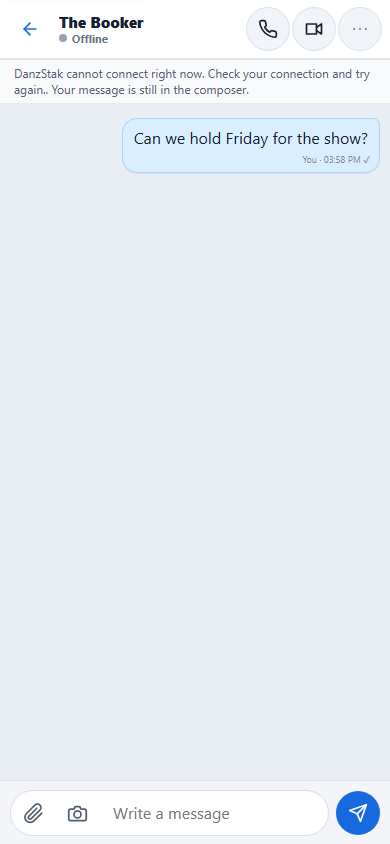
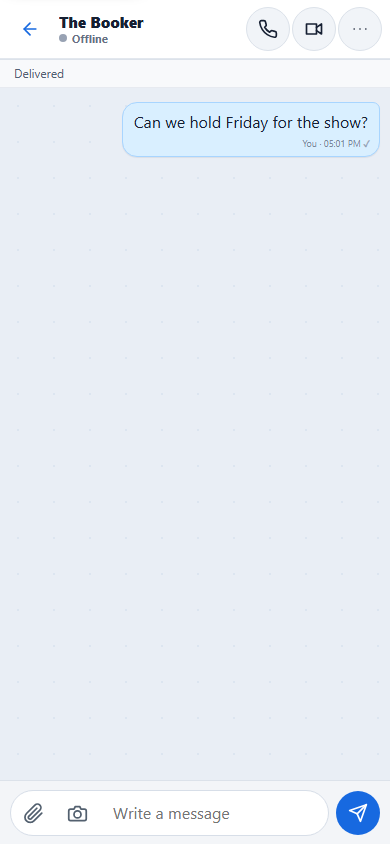
Preserve uncertain SYNC attachments

Changed region(s): [[0.0308, 0.0616, 0.9538, 0.2156]]

diff --git a/assets/direct-messages.js b/assets/direct-messages.js
@@ -1128,7 +1128,6 @@ messageForm?.addEventListener("submit", async event => {
     ? retryMessageSend
     : null;
   if (retryMessageSend && !retry) {
-    await discardMessageMedia(retryMessageSend.attachment?.mediaKey);
     retryMessageSend = null;
   }
   const clientMessageId = retry?.clientMessageId || `${String(Date.now()).padStart(13, "0")}#${crypto.randomUUID()}`;
@@ -1157,8 +1156,6 @@ messageForm?.addEventListener("submit", async event => {
     const response = await directFetch("/messages", { method: "POST", credentials: "include", headers: { "Content-Type": "application/json" }, body: JSON.stringify({ recipientEmail, content, clientMessageId, ...attachment }) });
     const data = await response.json().catch(() => ({}));
     if (!response.ok) {
-      await discardMessageMedia(attachment.mediaKey);
-      attachment = {};
       throw new Error(data.error || messageTranslate("Message could not be sent"));
     }
     retryMessageSend = null;
@@ -1171,6 +1168,7 @@ messageForm?.addEventListener("submit", async event => {
     }
     saveChatDraft(recipientEmail, "");
     if (selectedMessageMedia === mediaFile) clearSelectedMessageMedia();
+    callStatus.textContent = messageTranslate("Delivered");
     await loadConversations();
   } catch (error) {
     pendingItem.remove();

diff --git a/service-worker.js b/service-worker.js
@@ -1,6 +1,6 @@
 "use strict";
 
-const CACHE = "danzstak-shell-v715";
+const CACHE = "danzstak-shell-v716";
 const SHELL = [
   "/assets/offline.js", "/assets/identity-media.js", "/assets/user-content-links.js", "/assets/user-content-links.css", "/assets/invite-sharing.js", "/assets/invite-sharing.css",
   "/assets/fonts/archivo.woff2", "/assets/fonts/jetbrains-mono.woff2", "/assets/fonts/anton.woff2", "/assets/fonts/special-elite.woff2", "/assets/fonts/work-sans.woff2", "/assets/fonts/pirata-one.woff2", "/assets/fonts/oswald.woff2", "/assets/fonts/source-serif-4.woff2", "/assets/fonts/syne.woff2", "/assets/fonts/dm-sans.woff2",

diff --git a/messages.html b/messages.html
@@ -117,7 +117,7 @@
 <script src="assets/invite-sharing.js?v=1" defer></script>
 <script src="assets/identity-media.js?v=1" defer></script>
 <script src="assets/chat.js?v=450" defer></script>
-<script src="assets/direct-messages.js?v=488" defer></script>
+<script src="assets/direct-messages.js?v=489" defer></script>
 <script src="assets/booking-sync.js?v=5" defer></script>
 <script src="assets/make-plans.js?v=3" defer></script>
 <script src="assets/session-activity.js?v=296" defer></script>

diff --git a/docs/DANZSTAK-DEVELOPMENT-REPORT.md b/docs/DANZSTAK-DEVELOPMENT-REPORT.md
@@ -6,10 +6,11 @@ Status: **IN PROGRESS — CODE AND BROWSER TESTS READY FOR REVIEW; BACKEND NOT D
 
 - Root cause: a send retry received a new server-generated message ID. If the durable message write succeeded but the response or conversation-projection update failed, a user retry could create a second message and a second push alert. An interrupted offline sync could also leave an uncertain send permanently marked as `sending`.
 - Each new client send now receives one stable client message ID. Manual retries and offline-queue replays preserve it. The backend uses a conditional durable write, treats an identical replay as success, rejects reuse with changed content, repairs failed conversation projections, and sends the recipient push only for the first durable write.
+- Review found and corrected two release blockers: a successful retry now replaces the stale connection error with the truthful **Delivered** state, and an uploaded attachment is never discarded after a send attempt while server acceptance is uncertain. Retrying preserves the original media key and payload; changing the draft cannot delete media from a message the server may already have committed. Pre-send upload failures still use the existing cleanup path.
 - Cached older PWA clients remain compatible during rollout: a request without a client ID receives a server-generated ID, while updated clients receive retry safety. Older messages cannot replace a newer conversation preview.
-- Functional evidence: `test-message-idempotency.cjs`, `test-message-optimistic-send.cjs` and `test-offline.cjs` pass, including duplicate submission, payload collision, legacy-client compatibility, projection repair and uncertain offline replay.
-- Browser evidence: `browser-checks/message-idempotent-retry.cjs` passes at 320, 360, 390, 414, 430 and 1366px. It forces a lost first response, confirms that the draft is restored, verifies the explicit retry reuses the exact ID, renders one confirmed bubble with no pending duplicate, checks horizontal containment and a 44px send target, and records inspected captures in `docs/screenshots/message-idempotent-retry/`.
-- Prepared PWA assets: offline queue JS v3, chat CSS v452, direct messages JS v488 and cache `danzstak-shell-v715`.
+- Functional evidence: `test-message-idempotency.cjs`, `test-message-optimistic-send.cjs` and `test-offline.cjs` pass, including duplicate submission, payload collision, legacy-client compatibility, projection repair, exact attachment replay and uncertain offline replay.
+- Browser evidence: `browser-checks/message-idempotent-retry.cjs` passes at 320, 360, 390, 414, 430 and 1366px. It forces a lost first response, confirms that the draft is restored, verifies the explicit retry reuses the exact ID, renders one confirmed bubble with no pending duplicate or stale failure banner, checks horizontal containment and a 44px send target, and records inspected captures in `docs/screenshots/message-idempotent-retry/`.
+- Prepared PWA assets: offline queue JS v3, chat CSS v452, direct messages JS v488 and cache `danzstak-shell-v716`.
 - Honest boundary: no AWS backend or PWA deployment is included. Two-account live delivery, provider push reception and installed-phone behavior remain unverified until this review slice is approved and separately released. This improves Issue #39 but does not claim the complete SYNC reliability issue is finished.
 
 ## Invite a friend — 2026-11-07
